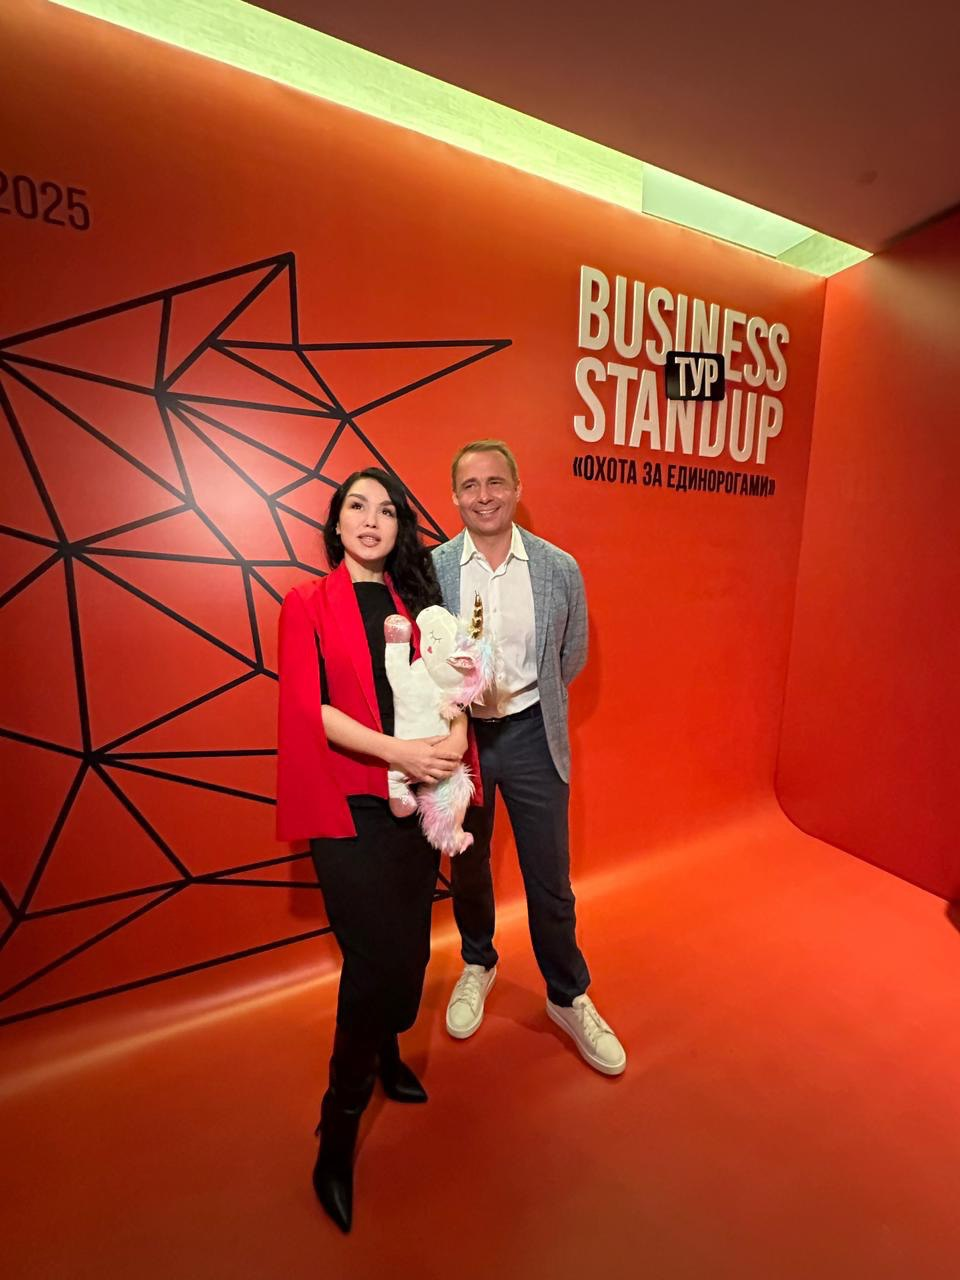
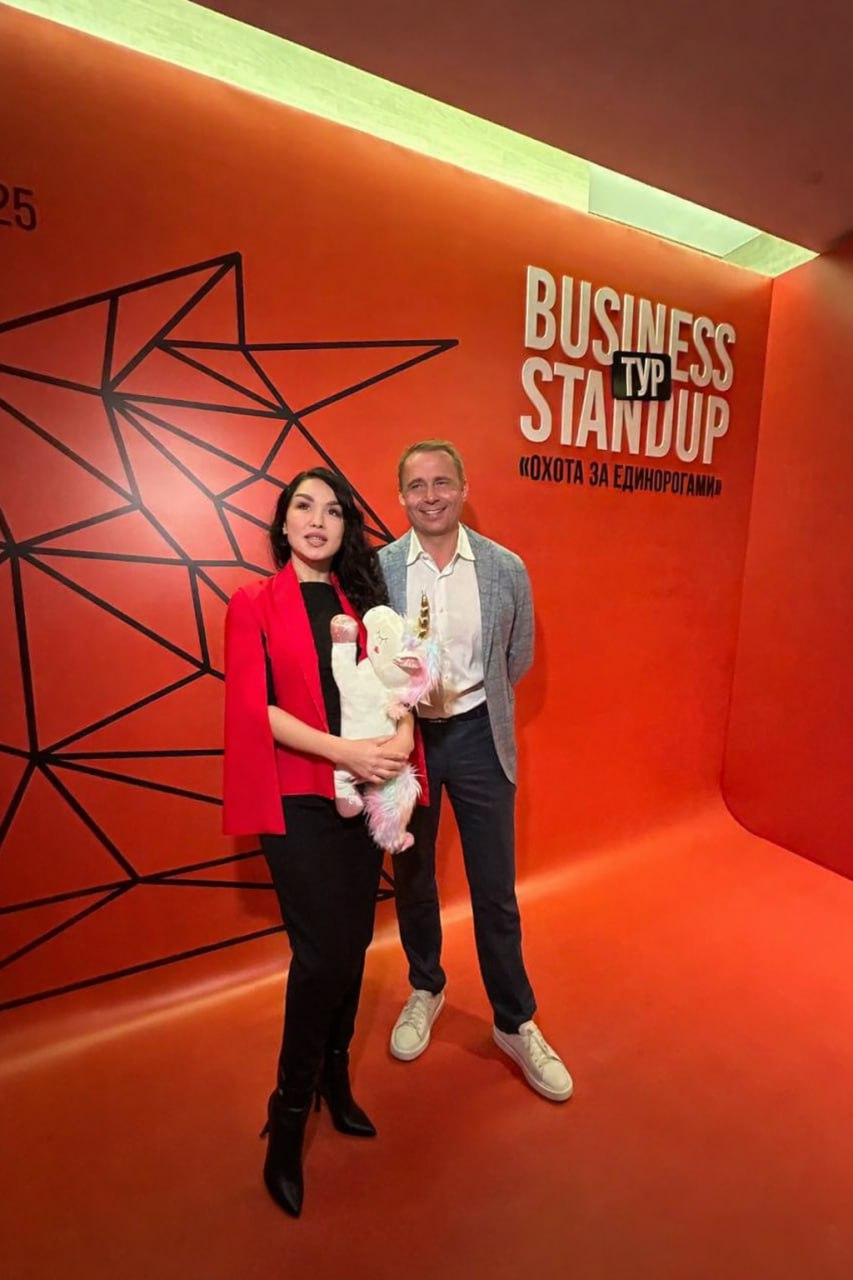
Проекты

diff --git a/src/components/ExperienceSection.tsx b/src/components/ExperienceSection.tsx
@@ -4,15 +4,16 @@ const ExperienceSection = () => {
   return (
     <section id="experience" className="py-32 relative">
       <div className="container mx-auto px-6">
+       <div className="mx-auto max-w-7xl">
         <h2 className="font-serif text-display text-center text-foreground mb-6">
           Опыт
         </h2>
 
-      <div className="grid gap-10 md:grid-cols-2 items-stretch">
+      <div className="grid gap-6 lg:gap-12 md:grid-cols-[minmax(0,1fr)_460px] items-stretch">
                 {/* Left: text */}
                 <div
                 data-gold-flash
-                className="glass-card gold-scroll-flash rounded-2xl p-8 md:p-10">
+                className="glass-card gold-scroll-flash rounded-2xl p-8 md:p-10 h-full">
                   <div className="text-foreground-muted text-lg leading-relaxed space-y-6">
 
                     <p>
@@ -23,10 +24,16 @@ const ExperienceSection = () => {
                     </p>
 
                     <p>
-                                          Я заходила в рынки, формировала новые категории,
-                                          выстраивала продукт, сервис и стратегию — и выходила из проектов
-                                          на пике, когда они становились массовыми.
-                                        </p>
+                    Но этот путь состоял не только из успехов. Около 80% проектов стали удачными
+                    и были реализованы на пике. Остальные 20% — проекты, созданные из логики «ради заработка», —
+                    прошли через кризисы и не дали ожидаемого результата. Именно они стали моей школой антикризисного управления.
+                    </p>
+
+                    <p>
+                    Я заходила в рынки, формировала новые категории,
+                    выстраивала продукт, сервис и стратегию — и выходила из проектов
+                    на пике, когда они становились массовыми.
+                    </p>
 
                     <p>
                       Эти проекты — не про удачу и не про «оказаться в нужное время».
@@ -46,8 +53,8 @@ const ExperienceSection = () => {
                 </div>
 
               {/* Right: photo */}
-              <div className="glass-card rounded-2xl p-6 md:p-8 flex flex-col">
-                <div className="relative overflow-hidden rounded-xl border border-white/10 h-[420px]">
+              <div className="glass-card rounded-2xl p-6 md:p-8 flex flex-col h-full">
+                <div className="relative w-full aspect-[3/4] overflow-hidden rounded-xl">
                   <img
                     src="/edinorog.jpg"
                     alt="Сабрина Салихова и Оскар Хартман"
@@ -59,6 +66,7 @@ const ExperienceSection = () => {
                   На фото: я, Оскар Хартман (основатель и инвестор 150+ компаний) и единорог 🦄 от него
                 </p>
               </div>
+            </div>
             </div>
       </div>
     </section>

diff --git a/src/components/AdvantagesSection.tsx b/src/components/AdvantagesSection.tsx
@@ -22,7 +22,7 @@ const advantages = [
     text:
     (
        <>
-           <strong className="font-black text-gold-gradient">Я женщина</strong>, и в этом моя сила как проводника в мир души гармоничных состояний. Эти состояния во многом недоступны мужчинам, потому что по своей природе они чаще действуют из логики и ума. А уникальность и пассионарность рождаются не из логики. Они воссоздаются через другие потенциалы, в которые я являюсь сильным проводником.
+           <strong className="font-black text-gold-gradient">Я женщина</strong>, и в этом моя сила как проводника в мир души гармоничных состояний. Эти состояния во многом недоступны мужчинам, потому что по своей природе они чаще действуют из логики и ума. А уникальность продуктов и пассионарность личности рождаются не из логики. Они воссоздаются через другие потенциалы, в которые я являюсь сильным проводником.
         </>
       ),
   },
@@ -72,7 +72,9 @@ const AdvantagesSection = () => {
     <section id="advantages" ref={sectionRef} className="py-32 relative">
       <div className="container mx-auto px-6">
         <h2
-          className={`font-serif text-display text-center text-foreground mb-16 transition-all duration-slow ${
+          className={`font-serif text-display text-center text-foreground mb-16 text-[28px] leading-tight
+                                                                                  md:text-[36px]
+                                                                                  lg:text-display transition-all duration-slow ${
             isVisible ? 'opacity-100 translate-y-0' : 'opacity-0 translate-y-8'
           }`}
         >
@@ -124,6 +126,20 @@ const AdvantagesSection = () => {
             </div>
           ))}
 
+{/* CTA */}
+<div
+  className={`mt-16 flex flex-col sm:flex-row gap-4 justify-center opacity-0 animate-fade-in-up ${
+    isVisible ? 'opacity-100' : ''
+  }`}
+  style={{ animationDelay: '0.6s' }}
+>
+  <a
+    href="/articles"
+    className="btn-glass px-8 py-4 rounded-xl font-sans text-sm uppercase tracking-wider text-center"
+  >
+    Посмотреть статьи
+  </a>
+</div>
 
 
         </div>

diff --git a/src/components/Hero.tsx b/src/components/Hero.tsx
@@ -44,7 +44,7 @@ const Hero = () => {
             </h1>
             
             <p 
-              className="text-2xl md:text-3xl text-[#F2C94C] font-serif tracking-wide mb-6 opacity-0 animate-fade-in-up"
+              className="text-xl md:text-3xl text-[#F2C94C] font-serif tracking-wide mb-6 opacity-0 animate-fade-in-up"
               style={{ animationDelay: '0.4s' }}
             >
               СТРАТЕГ-ВИЗИОНЕР • БИЗНЕС-КОУЧ • МАРКЕТОЛОГ • ИССЛЕДОВАТЕЛЬ • СЕРИЙНЫЙ ПРЕДПРИНИМАТЕЛЬ
